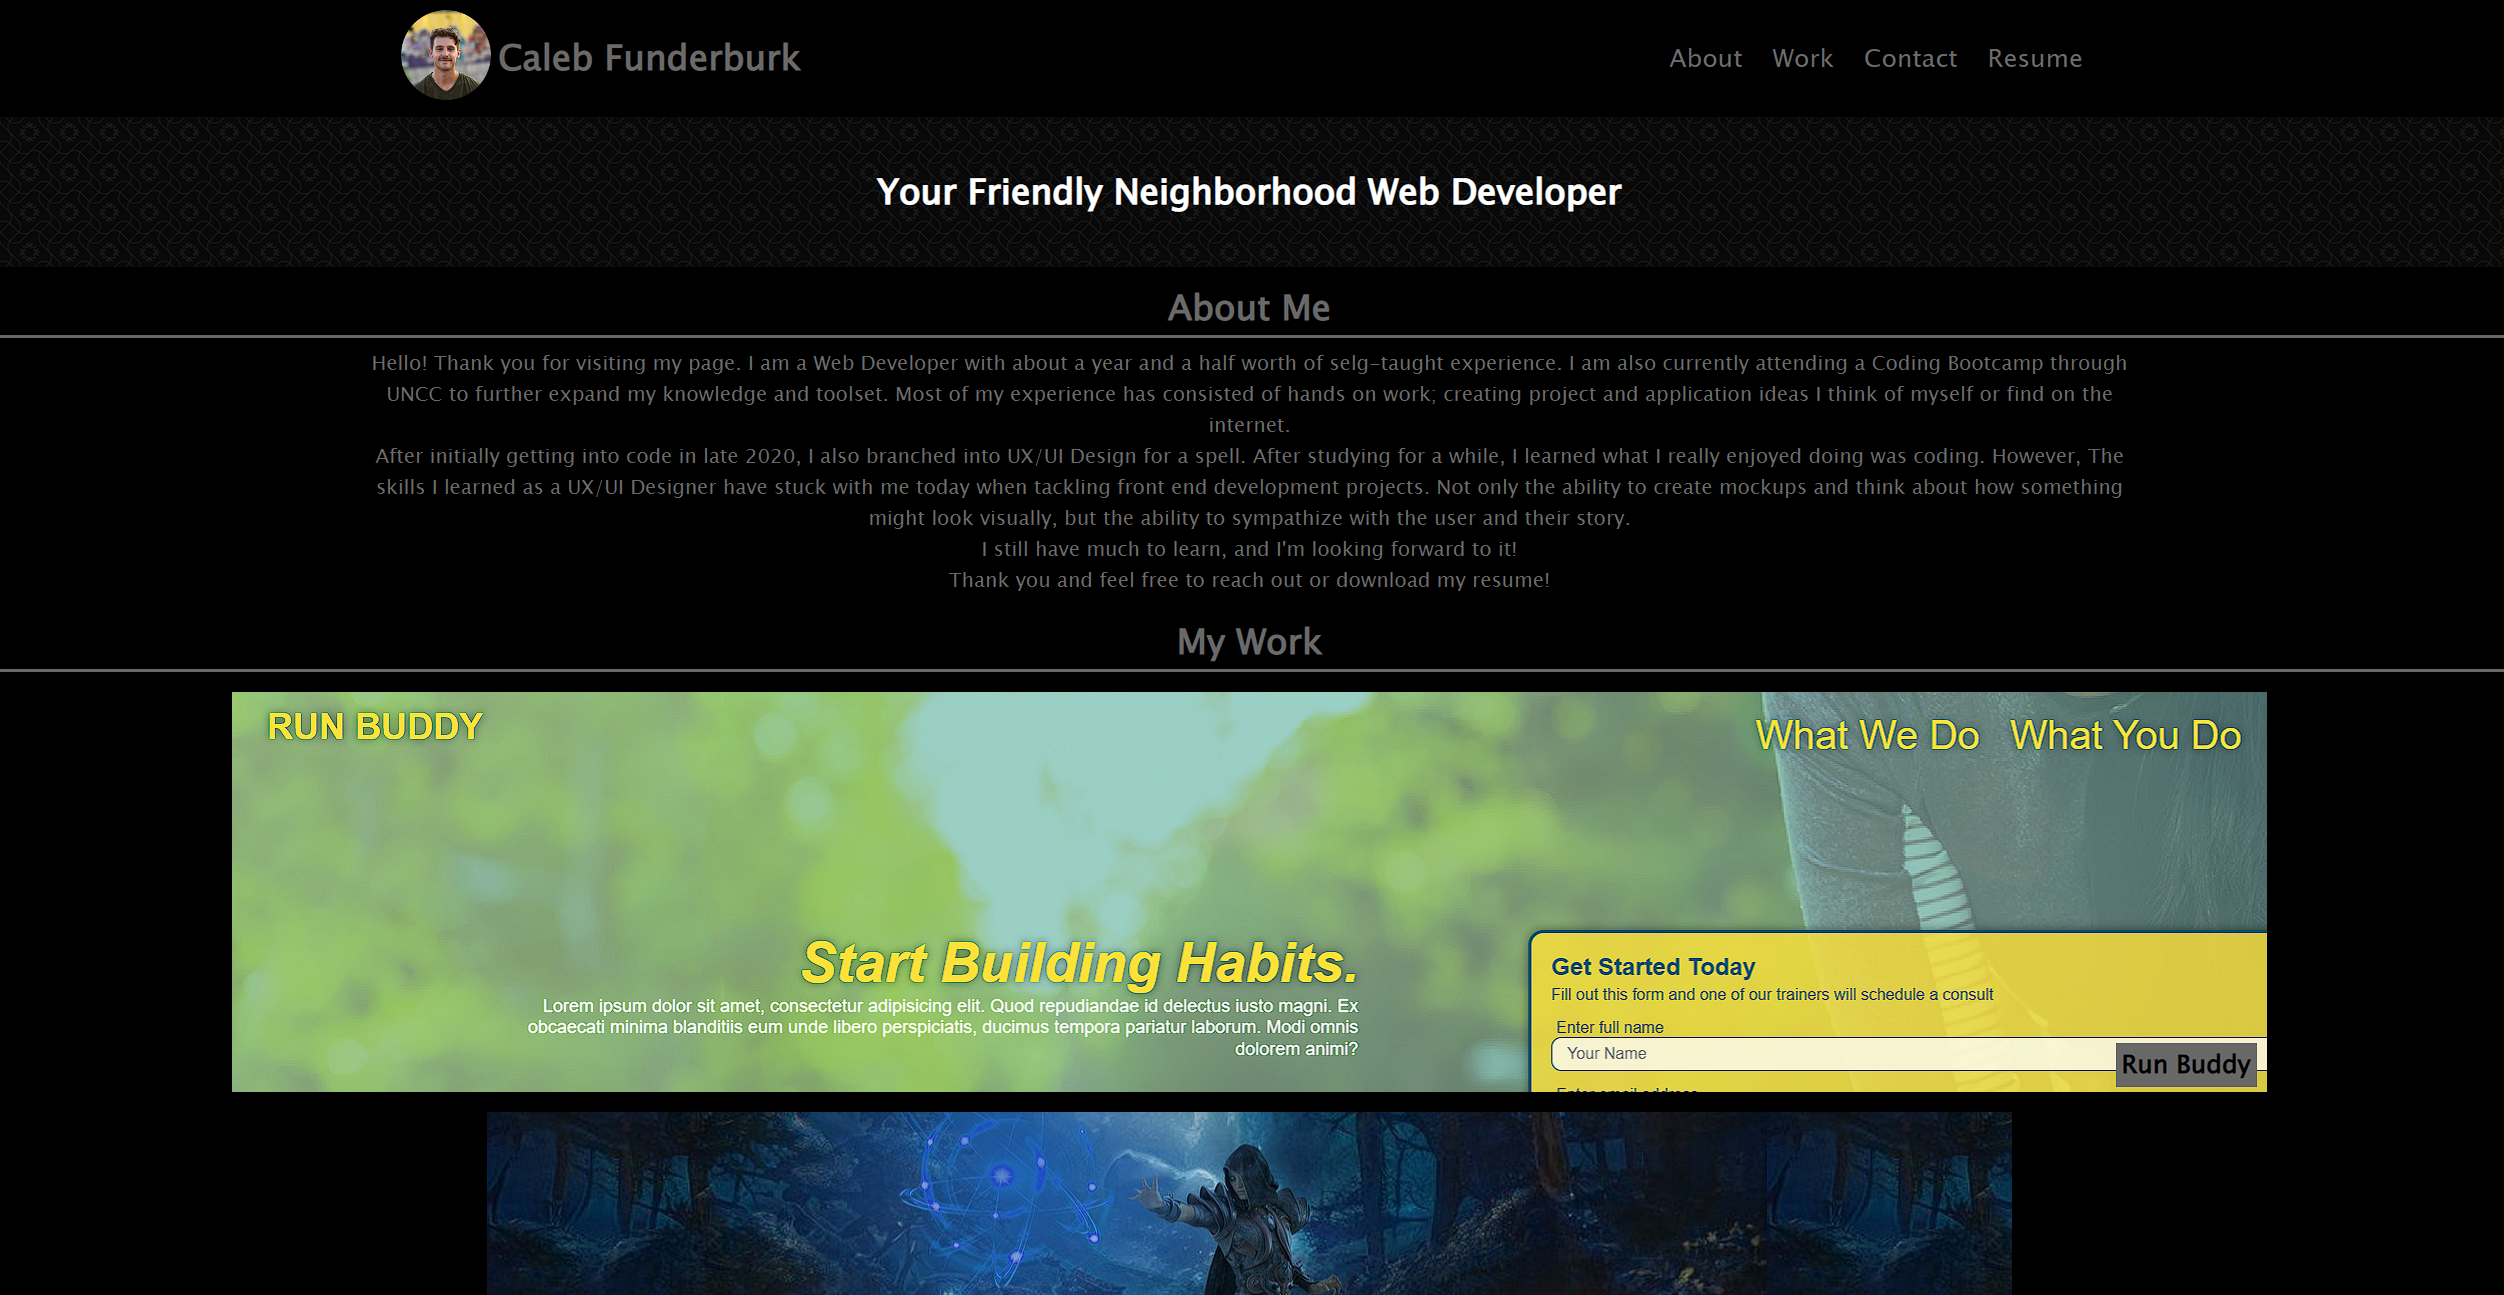
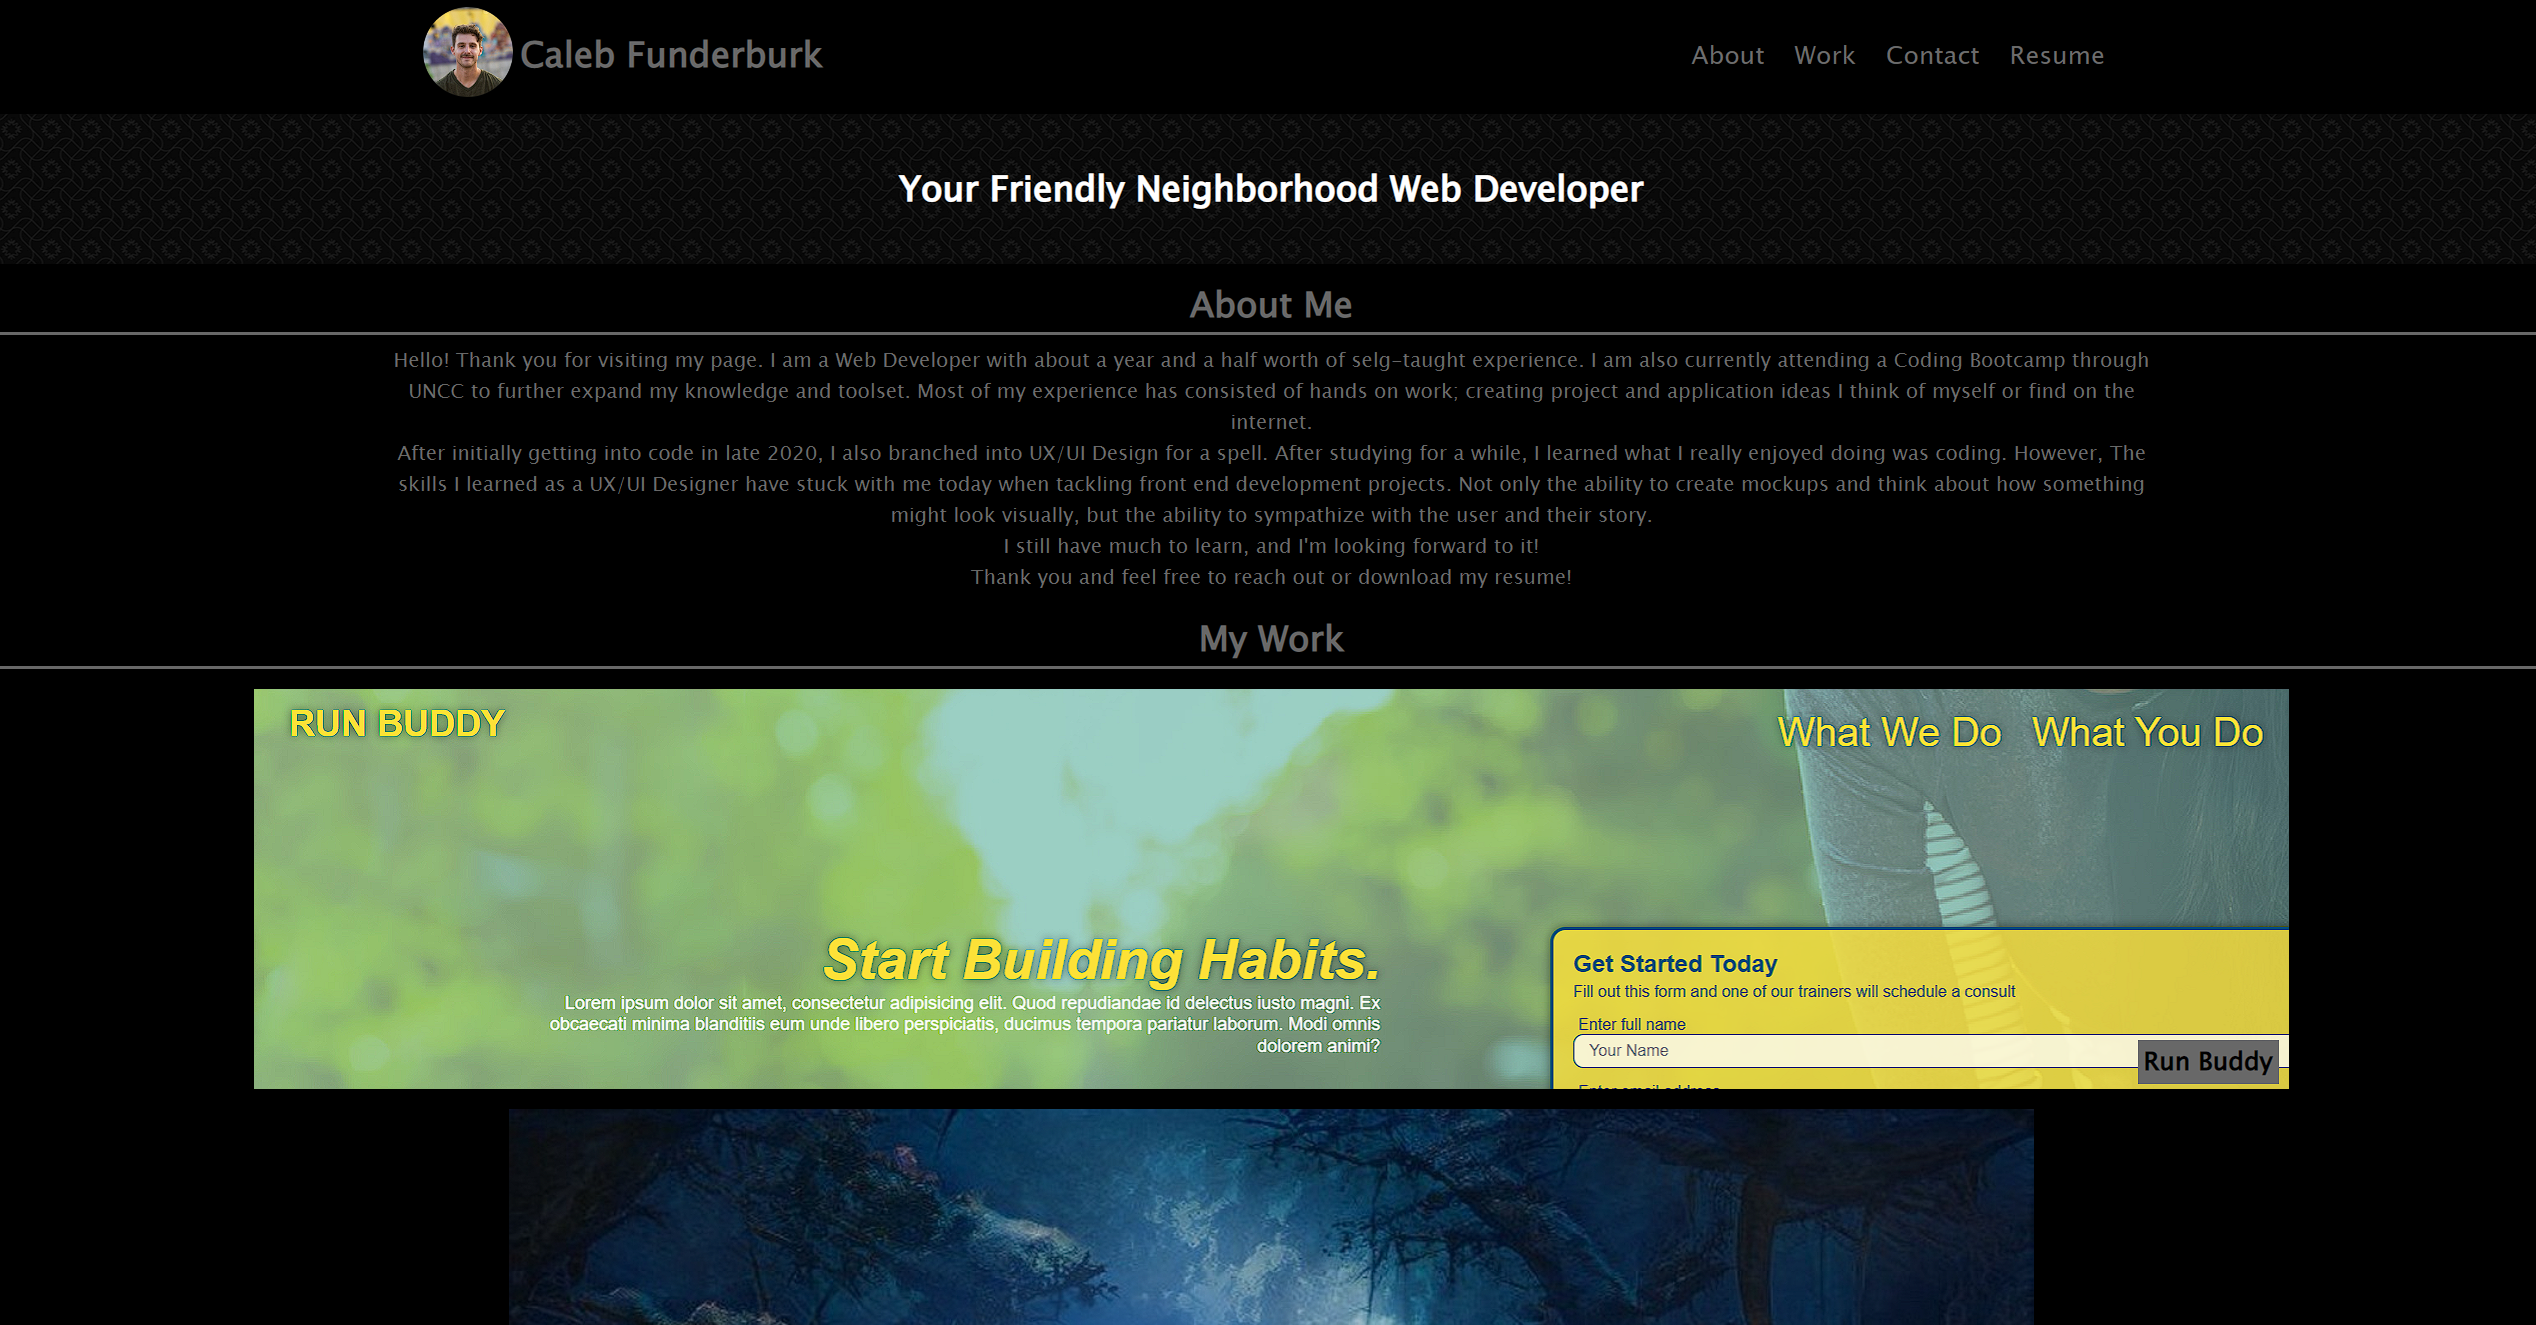
switch README img

diff --git a/assets/css/style.css b/assets/css/style.css
@@ -143,7 +143,7 @@ h4 {
 
 .support-1 {
     background-image: url("../images/wizard.jpg");
-    background-position: 0;
+    background-size: cover;
     width: 60%;
     height: 300px;
     margin: 20px auto;
